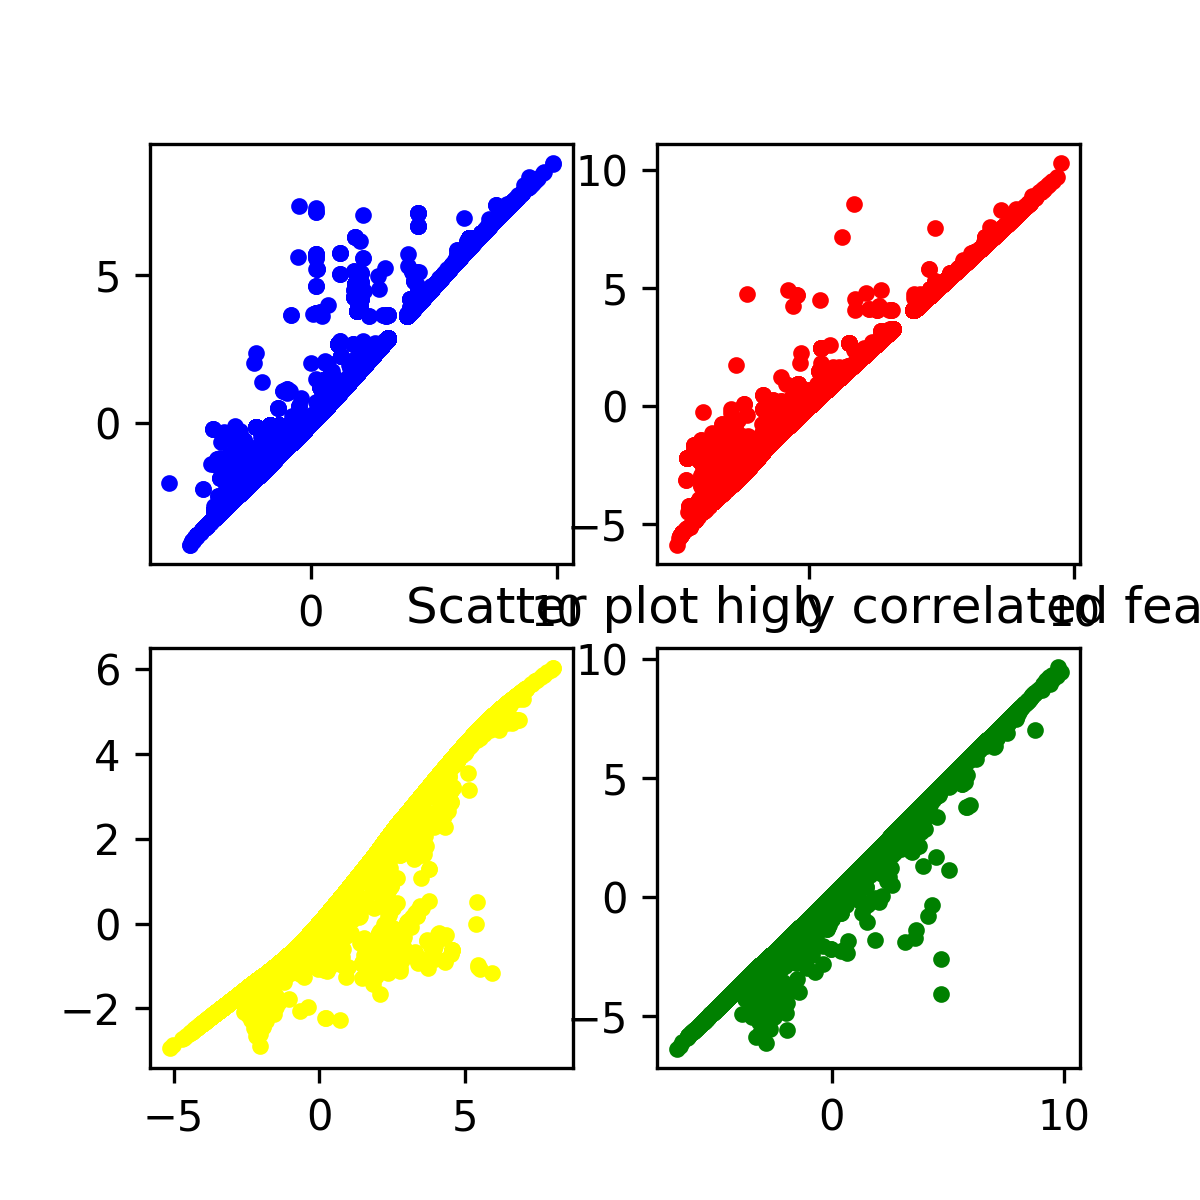
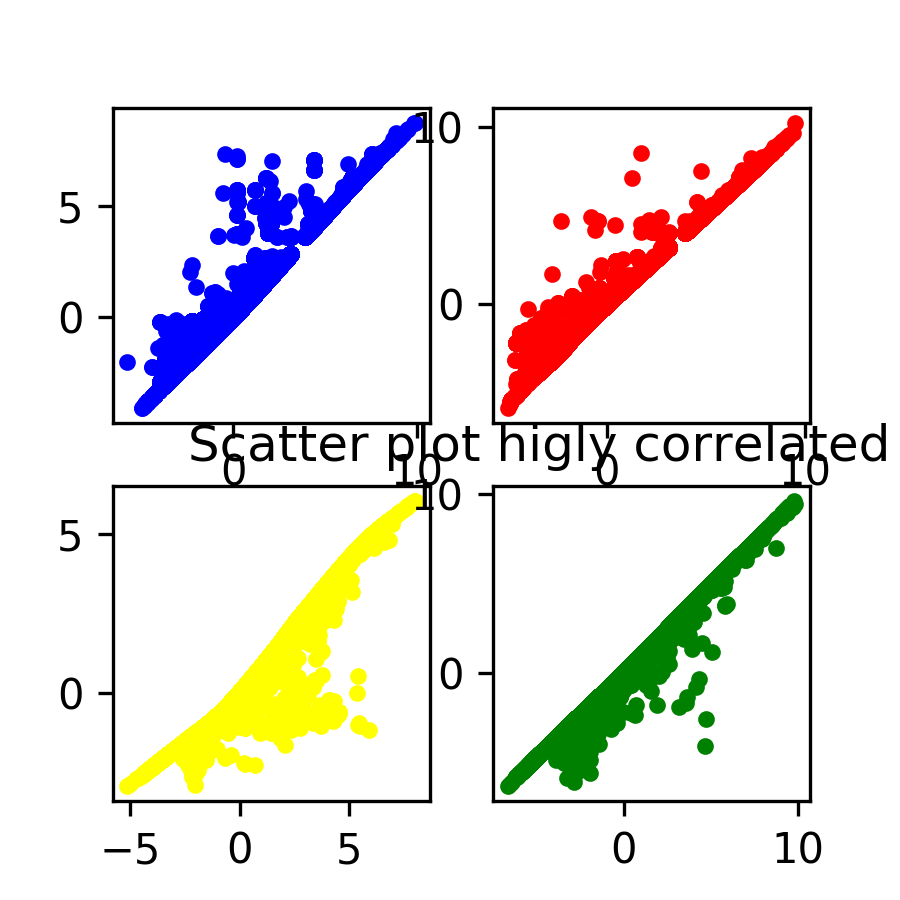
hopefuly better figures

diff --git a/JaneStreetMkt/data_visualization_main.py b/JaneStreetMkt/data_visualization_main.py
@@ -12,8 +12,6 @@ This is just a preliminary stage more in depth analysis will be carried later.
 
 import matplotlib.pyplot as plt
 from initial_import import import_dataset
-from initial_import import import_sampled_dataset
-from col_histogram import col_histogram
 import numpy as np
 import pandas as pd
 import time
@@ -133,7 +131,7 @@ if __name__ == '__main__':
 
     # print scatter plot correlated pairings
     print("Working on scatter plot most correlated features...\n")
-    fig0, axes = plt.subplots(2, 2, figsize=(4, 4))
+    fig0, axes = plt.subplots(2, 2, figsize=(3, 3))
     axes[0, 0].scatter(x=data.loc[:, 'feature_60'],
                        y=data.loc[:, 'feature_61'], c="blue", marker=".")
     axes[0, 1].scatter(x=data.loc[:, 'feature_62'],
@@ -151,7 +149,7 @@ if __name__ == '__main__':
     miss_values = data.shape[0]-data.count()
     # select features with most missing values and plot a barplot
     miss_values = miss_values[(miss_values > data.count()*.005)]
-    fig2 = miss_values.plot.bar(title='Features and missing values', fontsize=12, figsize=(15, 10))
+    fig2 = miss_values.plot.bar(title='Features and missing values', fontsize=12, figsize=(3, 2))
     plt.savefig('Figures/missing_values_and_features.png', dpi=300)
     plt.clf()
 
@@ -159,14 +157,14 @@ if __name__ == '__main__':
     print("Working on plot of features over time...\n")
     mean_matrix_anon = daily_avarage(data_anon)
     fig3 = mean_matrix_anon.plot(subplots=True, layout=(
-        68, 2), figsize=(9., 140.))
+        68, 2), figsize=(3., 30.))
     plt.savefig('Figures/anonimous_features_over_time.png', dpi=300, bbox_inches="tight")
     plt.clf()
 
     # plot the cumulative sum of main features over time to see if there are patterns
     mean_matrix_anon = daily_avarage(data_main)
     fig4 = mean_matrix_anon.plot(subplots=True, layout=(
-        4, 2), figsize=(9., 15.))
+        4, 2), figsize=(3., 5.))
     plt.savefig('Figures/main_features_over_time.png', dpi=300, bbox_inches="tight")
     plt.clf()
     print("Done :)\n")
@@ -174,7 +172,7 @@ if __name__ == '__main__':
     # plot histogram of actions and features_0 the only categorical data
     print("Working on histograms of features...\n")
     fig5 = data.loc[:, ["action"]].plot.hist(legend=True, fontsize=18, figsize=(
-        15, 10), bins=2, title="Histogram of actions")
+        3, 2), bins=2, title="Histogram of actions")
     plt.savefig('Figures/histogram_actions.png', dpi=300, bbox_inches="tight")
     fig6 = data.loc[:, ["feature_0"]].plot.hist(legend=True, fontsize=18, figsize=(
         15, 10), bins=2, title="Histogram of features_0")
@@ -182,7 +180,7 @@ if __name__ == '__main__':
     plt.clf()
 
     # plot histogram of anonimous features
-    figs, axs = plt.subplots(43, 3, figsize=(9, 100))
+    figs, axs = plt.subplots(43, 3, figsize=(3, 30))
     column_names = data_anon.columns.values.tolist()  # create a list with the name of all the columns
     for i in range(43):
         for j in range(3):
@@ -193,7 +191,7 @@ if __name__ == '__main__':
     plt.savefig('Figures/histogram_anon.png', dpi=300, bbox_inches="tight")
 
     # plot histograms main features
-    fig8, axs = plt.subplots(3, 3, figsize=(9, 9))
+    fig8, axs = plt.subplots(3, 3, figsize=(3, 3))
     column_names = data_main.columns.values.tolist()  # create a list with the name of all the columns
     for i in range(2):
         for j in range(2):
@@ -206,7 +204,7 @@ if __name__ == '__main__':
     # plot boxplot of main features
     print("Working on boxplot of features...\n")
     fig9 = data_main.drop(["weight", "action", "date"], axis=1).plot(
-        kind="box", grid=False, whis=(1, 99), meanline=True, vert=False, title="Boxplot main features", figsize=(5, 5))
+        kind="box", grid=False, whis=(1, 99), meanline=True, vert=False, title="Boxplot main features", figsize=(3, 3))
     plt.savefig("Figures/boxplot_main", dpi=300)
     print("Done:)\n")
 

diff --git a/JaneStreetMkt/initial_import.py b/JaneStreetMkt/initial_import.py
@@ -4,14 +4,24 @@ import pandas as pd
 import datatable as dt
 
 
+def compute_action(df):
+    df["action"] = (df["resp"] > 0) * 1
+    df["weighted_resp"] = df["resp"]*df["weight"]
+    print("number of acton = 1 is {} \n number of acton = 0 is {} ".format(
+        (df["action"] == 1).count(), (df["action"] == 0).count()))
+    return(df)
+
+
 def import_dataset():
     """importing the Jane Market dataset as a pandas dataframe, quite slow"""
     start = time.time()
-    data = pd.read_csv("../../jane-street-market-prediction/train.csv")  # load dataset
+    data = pd.read_csv("../../jane-street-market-prediction/train.csv",
+                       nrows=100000)  # load dataset
     print("Train size: {}".format(data.shape))
     print('Execution time is: {} s'.format(time.time()-start))  # compute execution time
+    new_data = compute_action(data)
     # data.info()
-    return data
+    return new_data
 
 
 def import_dataset_faster():
